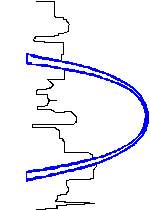
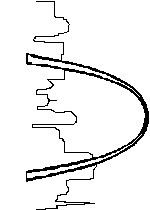
new stuff

Changed region(s): [[0.16, 0.2571, 1.0, 0.8857]]

diff --git a/printer.py b/printer.py
@@ -15,14 +15,15 @@ from termcolor import colored
 
 
 # paper resolution
-horiz_deg = 1800; #degress max move
+horiz_deg = 2050; #degress max move
 horiz_width = 5; #inches
 horiz_res = horiz_deg/horiz_width; # degrees per inch
-vertical_deg = 850; #degress max move
-vertical_width = 6.5; #inches
+vertical_deg = 24000; #degress max move
+vertical_width = 7.5; #inches
 vertical_res = vertical_deg/vertical_width; # degrees per inch
-vert_move = 7;
+vert_move = 130;
 horiz_move = vert_move*horiz_res/vertical_res;
+#horiz_move = 7;
 res = horiz_deg/horiz_move/1.1;
 
 # Python2 compatibility variables
@@ -34,8 +35,10 @@ true = 1
 
 def waitformotor(motor):
     xxx = 0
-    while motor.state != []:
+    while motor.state != ['holding'] and motor.state != []:
+        #print(motor.state)
         xxx = 0
+    #print(motor.state)
 # define motors and use brake mode
 
 col = ev3.ColorSensor()
@@ -44,20 +47,27 @@ pen1 = ev3.LargeMotor('outB')
 pen2 = ""
 head = ev3.MediumMotor('outC')
 
-pen1.stop_action = "brake"
-head.stop_action = "brake"
-paper.stop_action = "brake"
 head.reset()
 pen1.reset()
 paper.reset()
+
+pen1.stop_action = "hold"
+head.stop_action = "hold"
+paper.stop_action = "hold"
 
 
 #move paper until color sensor recieves >50 reading
 
 #paper.speed_regulation_enabled=u'on'
-pen1.run_to_rel_pos(speed_sp=-400, position_sp=-53)
+#pen1.run_to_rel_pos(speed_sp=-400, position_sp=19)
+pen1.run_to_rel_pos(speed_sp=400, position_sp=19)
 waitformotor(pen1)
+time.sleep(.2)
 pen1.reset()
+
+pen1.stop_action = "hold"
+paper.run_to_abs_pos(position_sp=0, speed_sp=1000)
+
 print("Init printer motors")
 print("Pixel Plotter v2.0 code v4.0")
 
@@ -73,9 +83,9 @@ def resetMotors():
 
 #make a function to make a dot on the page
 def makedot(pen,dir):
-    pen.run_to_abs_pos(speed_sp=400*dir, position_sp=30*dir)
+    pen.run_to_rel_pos(speed_sp=-400*dir, position_sp=-45*dir, stop_action="coast")
     waitformotor(pen) #double check if motor is stopped before raising pen
-    pen.run_to_abs_pos(speed_sp=-400*dir, position_sp=-29*dir)
+    pen.run_to_rel_pos(speed_sp=400*dir, position_sp=20*dir, stop_action="hold")
     waitformotor(pen) #double check if motor is stopped before raising pen
 
 #resize and flip image
@@ -158,7 +168,10 @@ def runPrinter(array1,width,height):
 
 def printer(filename):
     while col.value() < 50:
-        paper.run_forever(duty_cycle_sp=40)
+        paper.run_forever(speed_sp=1000)
+
+    paper.run_to_rel_pos(position_sp=-7500, speed_sp=-1000, ramp_down_sp=500)
+    waitformotor(paper)
     paper.stop()
     paper.reset()
         

diff --git a/alexaplot.py b/alexaplot.py
@@ -83,9 +83,11 @@ class MindstormsGadget(AlexaGadget):
 
         # call printer() from printer.py
         # conjoin words and make lowercase to match filename
-        if (picture == "me") {
-                os.system("fswebcam --no-banner -r 640x480 --jpeg 85 -D 1 web-cam-shot.jpg ; convert web-cam-shot.jpg -colorspace gray -canny 0x1+10%+10%  -negate -rotate -90 -posterize 3 -resize 120 -threshold 80% -monochrome me.jpg")
-                
+        if picture.lower().replace(" ", "") == "me":
+                print("taking picture")
+                os.system("fswebcam --no-banner -r 640x480 --jpeg 85 -D 1 web-cam-shot.jpg ; convert web-cam-shot.jpg -colorspace gray -canny 0x1+10%+10%  -negate -rotate -90 -posterize 3 -resize 120 -threshold 80% -monochrome me.png")
+
+        print("starting print")       
         printer.printer(picture.lower().replace(" ", "")+".png")
 
 
